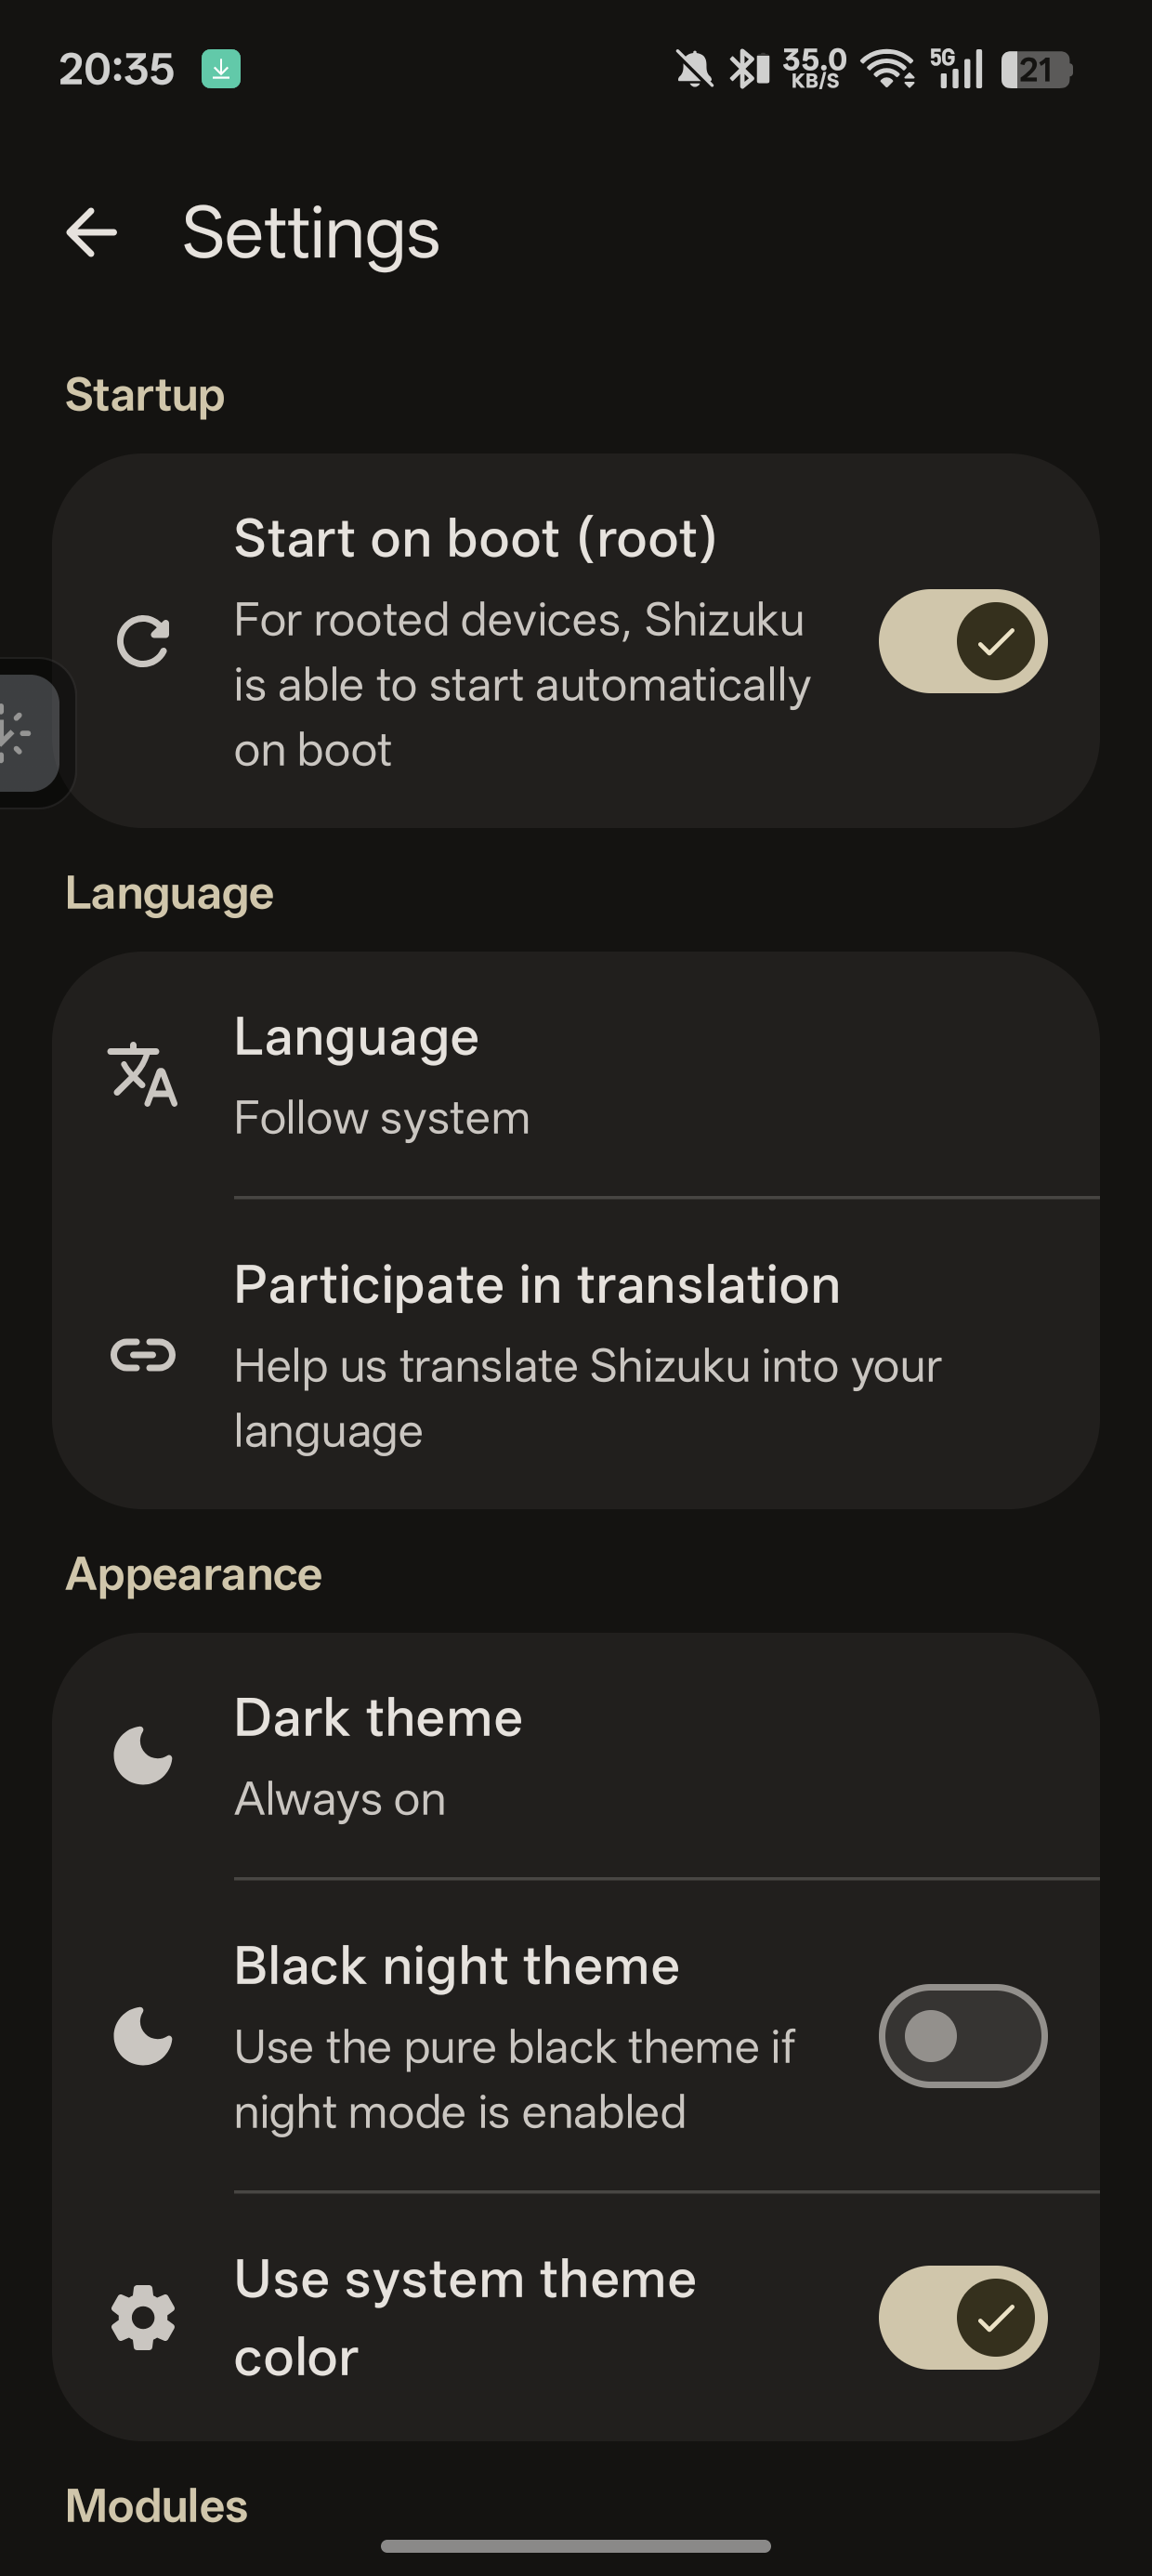
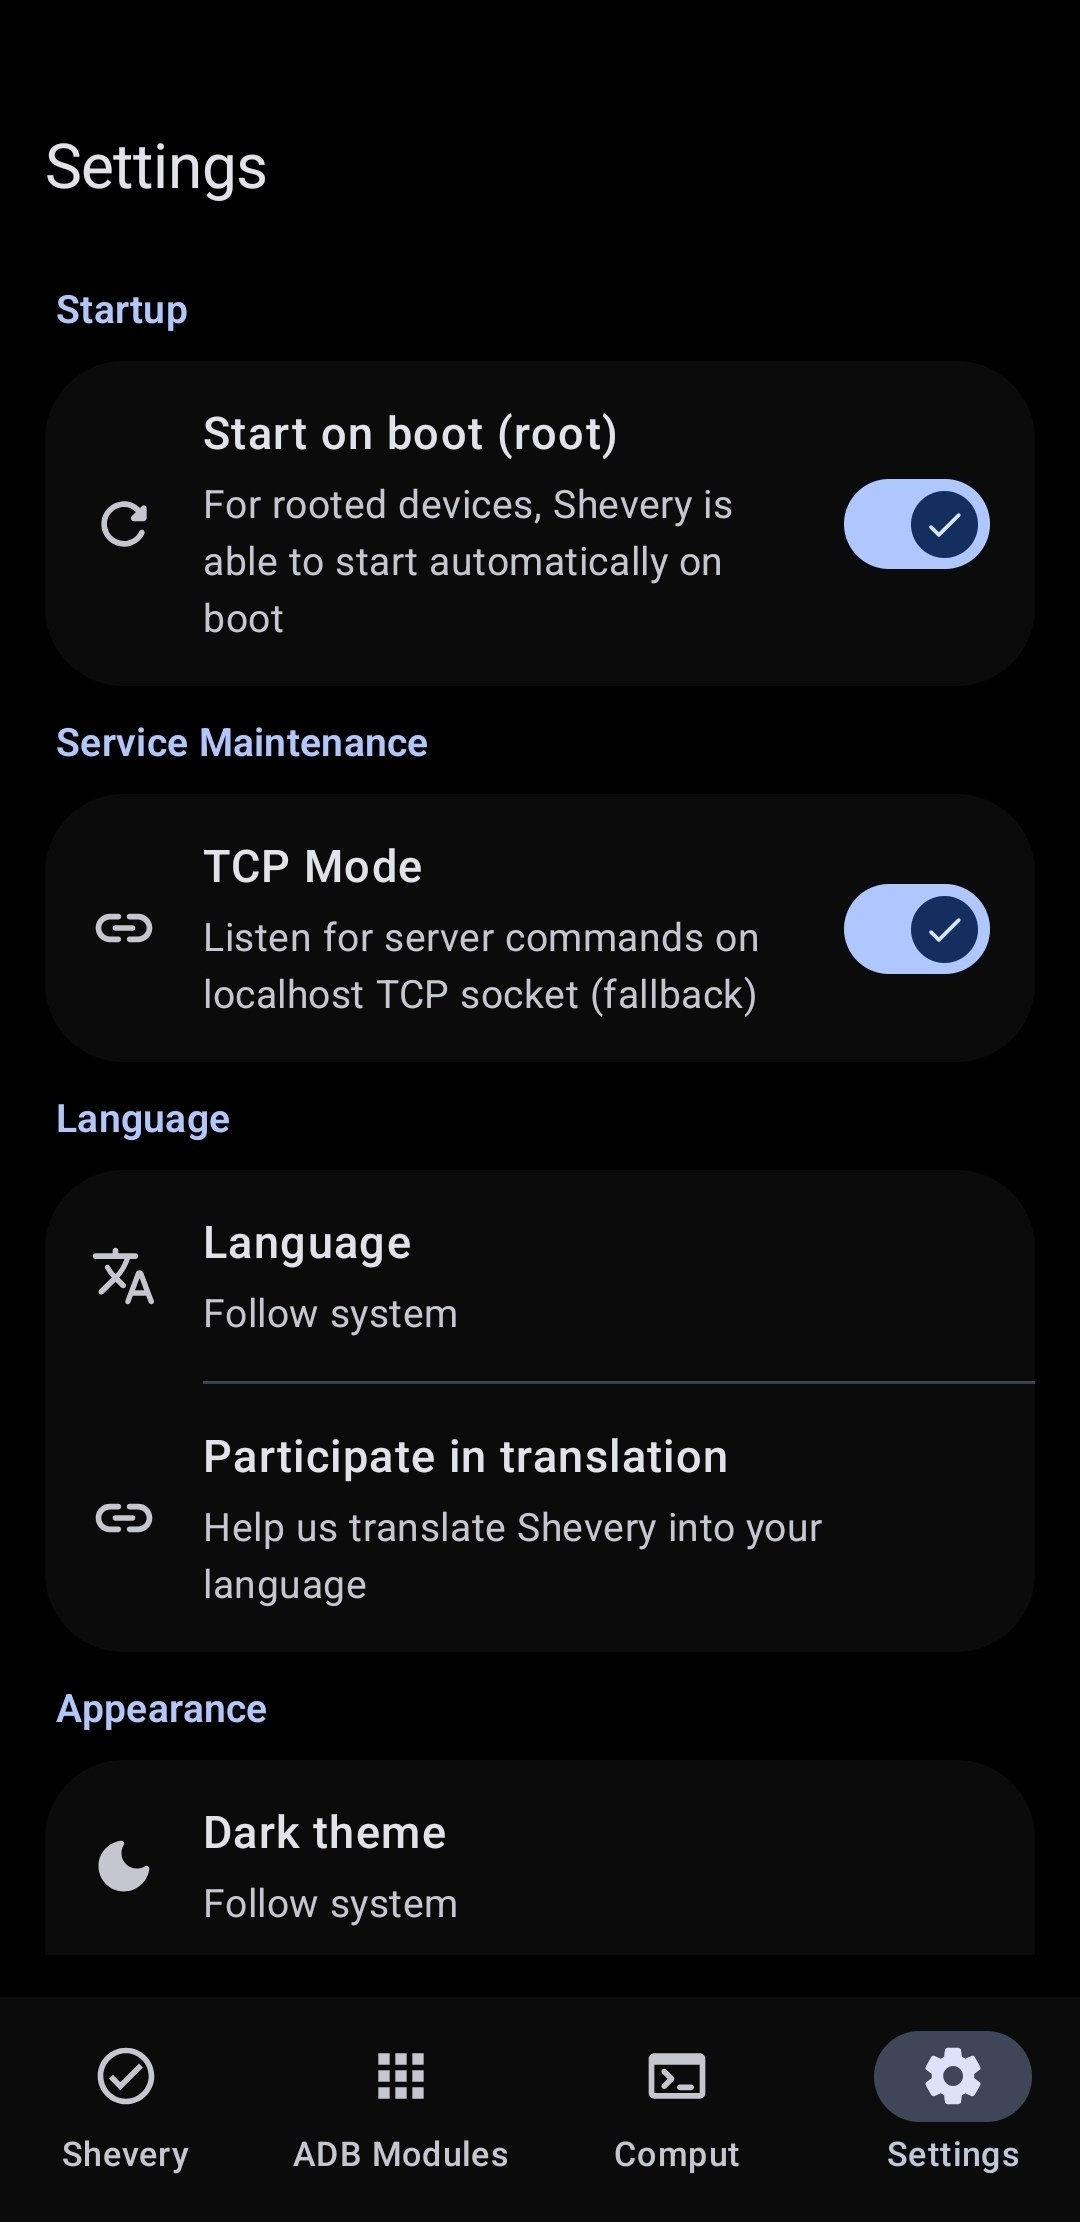
ci: fix SDK setup step and update repository branding to Shevery
This update resolves the platforms;android-37 manual download issue in GitHub Actions by letting Gradle automatically resolve licenses and download resources. It also replaces 'Shizuku Reforked' with 'Shevery' in README, About screen, and release guides, and updates the screenshots folder with the new layout.

diff --git a/manager/src/main/java/moe/shizuku/manager/about/AboutActivity.kt b/manager/src/main/java/moe/shizuku/manager/about/AboutActivity.kt
@@ -176,9 +176,9 @@ class AboutActivity : AppActivity() {
             SettingsRow(
                 icon = R.drawable.ic_baseline_link_24,
                 title = stringResource(R.string.about_source_code_button),
-                summary = "github.com/HmnDev-Tech/shizuku-reforked",
+                summary = "github.com/HmnDev-Tech/shevery",
                 onClick = {
-                    CustomTabsHelper.launchUrlOrCopy(context, "https://github.com/HmnDev-Tech/shizuku-reforked")
+                    CustomTabsHelper.launchUrlOrCopy(context, "https://github.com/HmnDev-Tech/shevery")
                 }
             )
             GroupDivider()

diff --git a/GITHUB_RELEASE_GUIDE.md b/GITHUB_RELEASE_GUIDE.md
@@ -1,4 +1,4 @@
-# 🚀 Shizuku Reforked - GitHub Deployment Guide
+# 🚀 Shevery - GitHub Deployment Guide
 
 This guide will walk you through pushing the source repository to your GitHub and creating the perfect, feature-complete Release.
 
@@ -12,7 +12,7 @@ Since direct GitHub authentication is on your system, open your terminal (PowerS
 # 1. Rename local main branch
 git branch -M main
 
-# 2. Create a new BLANK repository on your GitHub account (e.g., Shizuku-Reforked)
+# 2. Create a new BLANK repository on your GitHub account (e.g., shevery)
 # Then paste your HTTPS or SSH repository URL here:
 git remote add origin <YOUR_GITHUB_REPOSITORY_URL>
 
@@ -24,16 +24,16 @@ git push -u origin main
 
 ## 📦 Step 2: Create GitHub Release
 
-When creating a new GitHub Release, name the tag **`v13.6.0-reforked`** and use the exact text below for the content:
+When creating a new GitHub Release, name the tag **`v13.7.0`** and use the exact text below for the content:
 
 ### Release Title:
-`Shizuku Reforked v13.6.0 - Extended Features & Jetpack Compose UI`
+`Shevery v13.7.0 - Extended Features & Jetpack Compose UI`
 
 ### Release Description (Markdown):
 ```markdown
-# 🌟 Shizuku Reforked v13.6.0 (Independent Fork)
+# 🌟 Shevery v13.7.0 (Independent Fork)
 
-Welcome to the definitive release of the **Shizuku Reforked** project! This version brings an entirely modernized Material 3 Expressive design system, an ADB-backed dynamic modules engine, and advanced laboratory toggles.
+Welcome to the definitive release of the **Shevery** project! This version brings an entirely modernized Material 3 Expressive design system, an ADB-backed dynamic modules engine, and advanced laboratory toggles.
 
 ---
 

diff --git a/README.md b/README.md
@@ -1,4 +1,4 @@
-# Shizuku Reforked
+# Shevery
 
 ## Fork status
 
@@ -63,14 +63,11 @@ Shizuku uses a completely different way. See detailed description below.
   <table>
     <tr>
       <td align="center"><img src="screenshots/main.png" width="300" /><br/><b>Main Screen</b></td>
-      <td align="center"><img src="screenshots/apps.png" width="300" /><br/><b>Authorized Apps</b></td>
+      <td align="center"><img src="screenshots/comput.png" width="300" /><br/><b>Comput Console</b></td>
     </tr>
     <tr>
       <td align="center"><img src="screenshots/modules.png" width="300" /><br/><b>ADB Modules</b></td>
-      <td align="center"><img src="screenshots/module-webui.png" width="300" /><br/><b>Module WebUI</b></td>
-    </tr>
-    <tr>
-      <td colspan="2" align="center"><img src="screenshots/settings.png" width="300" /><br/><b>Settings</b></td>
+      <td align="center"><img src="screenshots/settings.png" width="300" /><br/><b>Settings</b></td>
     </tr>
   </table>
 </details>